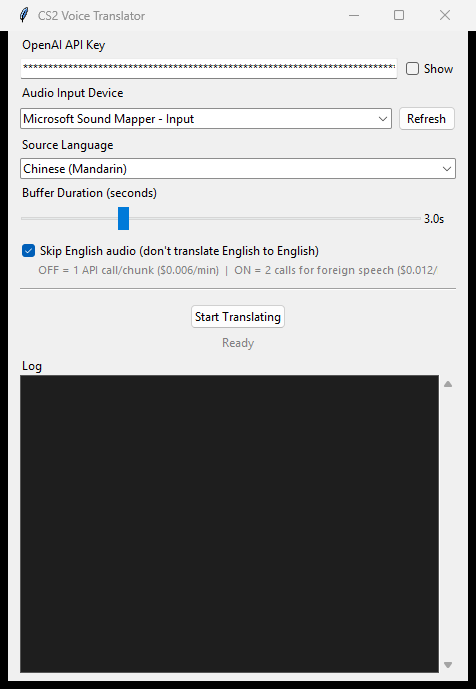
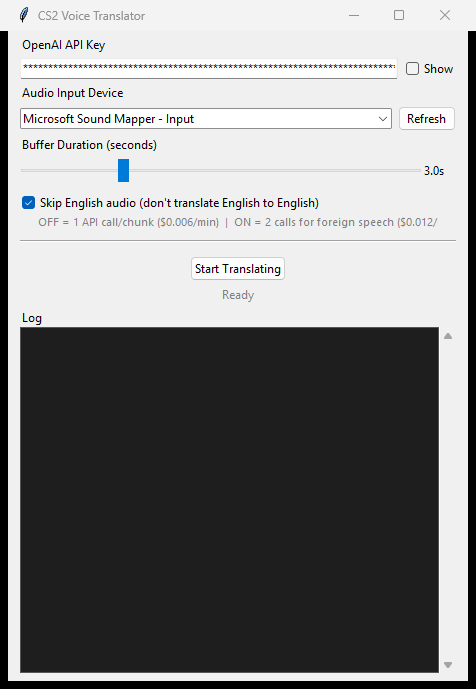
docs: add gameplay screenshot and refresh settings screenshot
Show the overlay over a live CS2 round at the top of the README, with
other players' names and avatars blurred. Retake the settings window
screenshot now that the source-language dropdown is gone.

Changed region(s): [[0.0294, 0.1829, 0.9412, 0.5486]]

diff --git a/README.md b/README.md
@@ -2,6 +2,8 @@
 
 Real-time voice translation overlay for CS2 (Counter-Strike 2) that translates foreign-language teammates to English using the OpenAI Whisper API.
 
+![Translation overlay showing an English caption during a CS2 round](docs/gameplay.jpg)
+
 ## Features
 
 - **Non-intrusive overlay** — transparent, draggable window that sits on top of CS2
